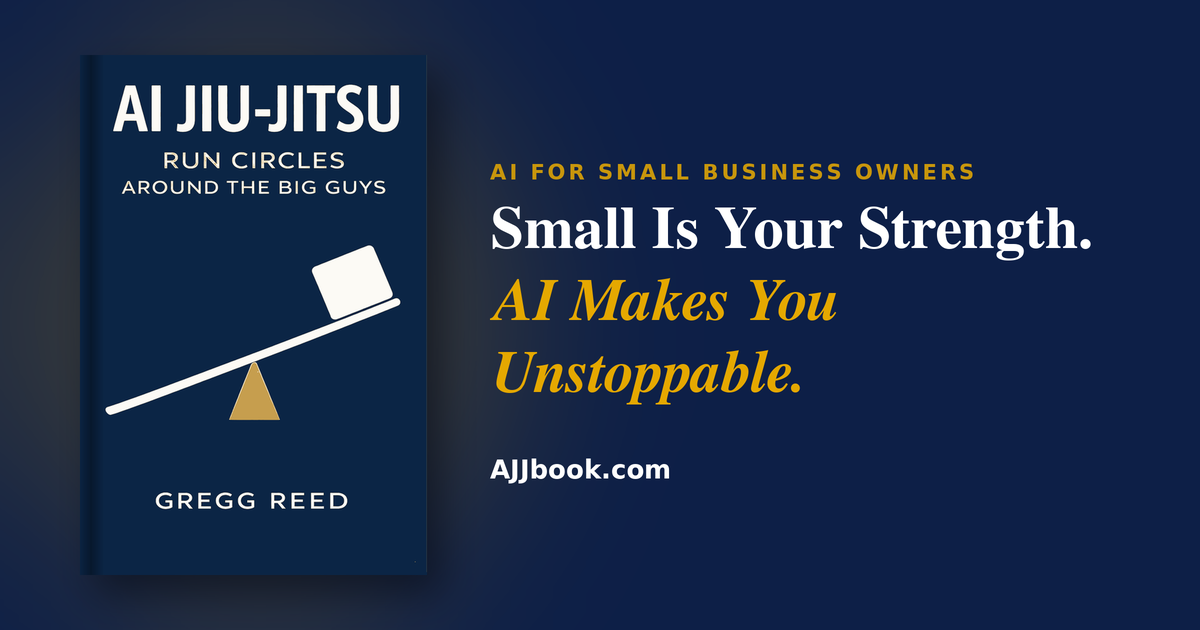
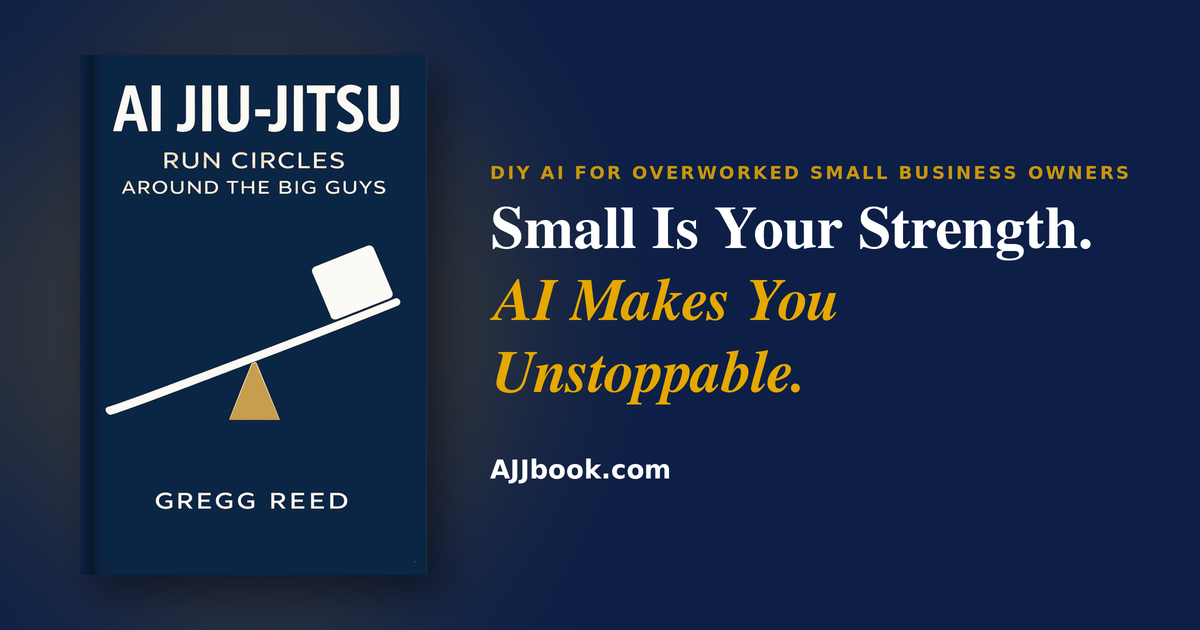
Position the book as DIY AI for overworked small business owners
Label above the headline, Google description, book data, social share text, and share image.

Claude-Session: https://claude.ai/code/session_015ACpW8NjrnbLwLRo9ibbHh

Changed region(s): [[0.4008, 0.2413, 0.9558, 0.3016]]

diff --git a/index.html b/index.html
@@ -7,14 +7,14 @@
 <link rel="icon" href="favicon-32.png?v=3" type="image/png" sizes="32x32">
 <link rel="icon" href="favicon.ico?v=3" sizes="any">
 <link rel="apple-touch-icon" href="apple-touch-icon.png?v=3">
-<meta name="description" content="AI for small business owners, made simple. AI Jiu-Jitsu by Gregg Reed shows you how to save time, win customers, and run circles around the big guys.">
+<meta name="description" content="DIY AI for overworked small business owners. AI Jiu-Jitsu by Gregg Reed shows you how to save time, win customers, and run circles around the big guys.">
 <link rel="canonical" href="https://ajjbook.com/">
 <meta property="og:type" content="book">
 <meta property="og:site_name" content="AI Jiu-Jitsu">
 <meta property="og:url" content="https://ajjbook.com/">
 <meta property="og:title" content="AI Jiu-Jitsu: Run Circles Around the Big Guys">
-<meta property="og:description" content="Small is your strength. AI makes you unstoppable. The practical AI playbook for small business owners.">
-<meta property="og:image" content="https://ajjbook.com/img/share.png">
+<meta property="og:description" content="DIY AI for overworked small business owners. Small is your strength. AI makes you unstoppable.">
+<meta property="og:image" content="https://ajjbook.com/img/share.png?v=2">
 <meta property="og:image:width" content="1200">
 <meta property="og:image:height" content="630">
 <meta property="og:image:alt" content="AI Jiu-Jitsu by Gregg Reed. Small is your strength. AI makes you unstoppable.">
@@ -22,8 +22,8 @@
 <meta property="book:author" content="Gregg Reed">
 <meta name="twitter:card" content="summary_large_image">
 <meta name="twitter:title" content="AI Jiu-Jitsu: Run Circles Around the Big Guys">
-<meta name="twitter:description" content="Small is your strength. AI makes you unstoppable. The practical AI playbook for small business owners.">
-<meta name="twitter:image" content="https://ajjbook.com/img/share.png">
+<meta name="twitter:description" content="DIY AI for overworked small business owners. Small is your strength. AI makes you unstoppable.">
+<meta name="twitter:image" content="https://ajjbook.com/img/share.png?v=2">
 <script type="application/ld+json">
 {
  "@context": "https://schema.org",
@@ -45,7 +45,7 @@
  "inLanguage": "en",
  "image": "https://ajjbook.com/img/cover_front.png",
  "url": "https://ajjbook.com/",
- "description": "AI for small business owners, made simple. AI Jiu-Jitsu by Gregg Reed shows you how to save time, win customers, and run circles around the big guys.",
+ "description": "DIY AI for overworked small business owners. AI Jiu-Jitsu by Gregg Reed shows you how to save time, win customers, and run circles around the big guys.",
  "about": [
   "Artificial intelligence",
   "Small business",
@@ -198,7 +198,7 @@ h2{color:var(--navy);font-size:1.6em;line-height:1.2;margin:0 0 .5em;text-wrap:b
 <header class="hero" id="top"><div class="in">
   <div class="cover"><a href="https://link.amazon/B06EBG1gq" target="_blank" rel="sponsored noopener"><span class="book3d"><img src="img/cover_front.png" width="500" height="750" alt="AI Jiu-Jitsu: Run Circles Around the Big Guys, by Gregg Reed. Front cover."></span></a></div>
   <div class="copy">
-    <p class="eyebrow">AI for small business owners</p>
+    <p class="eyebrow">DIY AI for overworked small business owners</p>
     <h1>Small Is Your Strength. <em>AI Makes You Unstoppable.</em></h1>
     <p class="lede"><strong>AI Jiu-Jitsu</strong> shows you how to use AI to amplify what makes your business special: your relationships, your speed, your personal touch.</p>
     <p class="lede">You don’t have to stop being you. AI leverages your strengths, expands your reach, and takes care of your busywork.</p>
